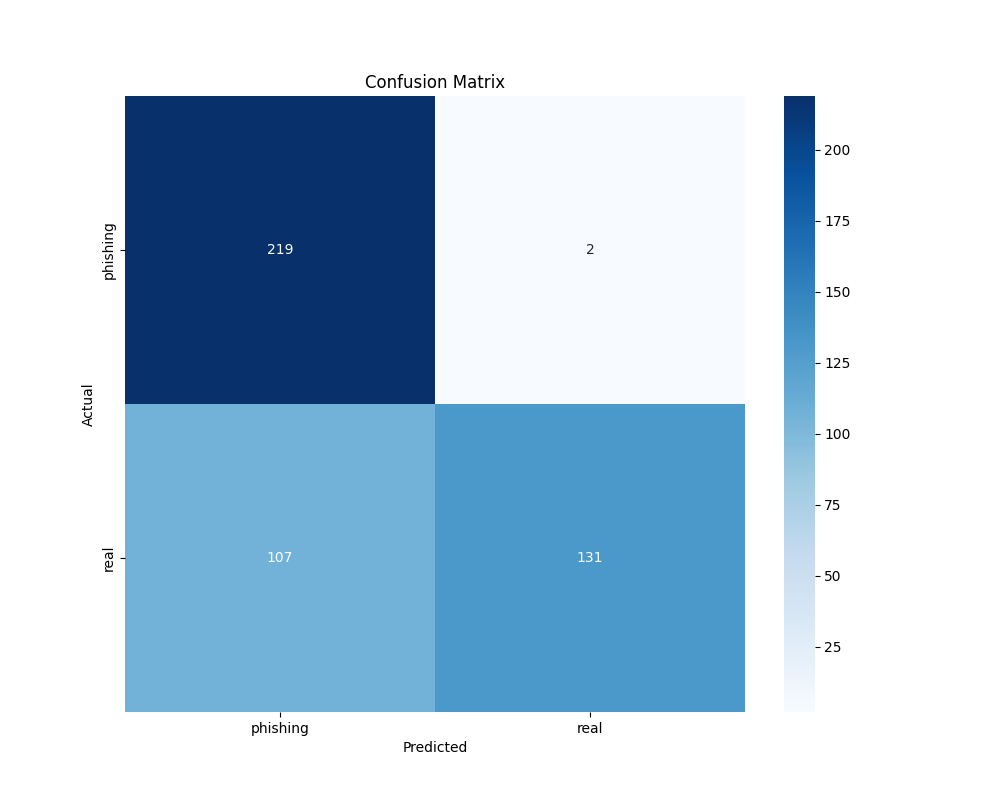
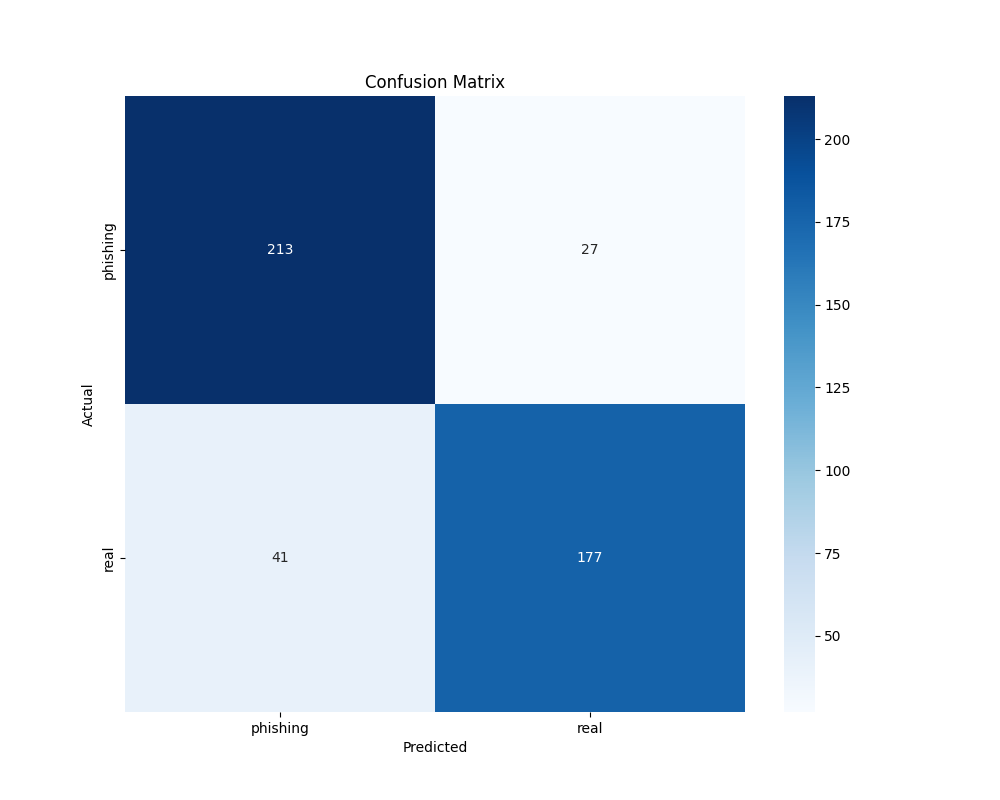
Updated

Changed region(s): [[0.124, 0.5, 0.744, 0.9062], [0.806, 0.1562, 0.868, 0.1875], [0.806, 0.7812, 0.837, 0.8125]]

diff --git a/dataset_loader.py b/dataset_loader.py
@@ -1,7 +1,21 @@
 import os
 import torch
+from PIL import Image
 from torchvision import datasets, transforms
 from torch.utils.data import DataLoader, random_split
+
+def is_valid_image(path):
+    """Checks if a file is a valid image and can be opened by PIL."""
+    valid_extensions = ('.jpg', '.jpeg', '.png', '.ppm', '.bmp', '.pgm', '.tif', '.tiff', '.webp')
+    if not path.lower().endswith(valid_extensions):
+        return False
+    try:
+        with Image.open(path) as img:
+            img.verify()
+        return True
+    except Exception:
+        print(f"Warning: Skipping corrupted or unidentified image: {path}")
+        return False
 
 def load_dataset(dataset_dir, batch_size=32, img_size=(224, 224), validation_split=0.2, seed=42):
     """
@@ -19,7 +33,7 @@ def load_dataset(dataset_dir, batch_size=32, img_size=(224, 224), validation_spl
         transforms.Normalize(mean=[0.485, 0.456, 0.406], std=[0.229, 0.224, 0.225])
     ])
 
-    full_dataset = datasets.ImageFolder(root=dataset_dir, transform=transform)
+    full_dataset = datasets.ImageFolder(root=dataset_dir, transform=transform, is_valid_file=is_valid_image)
     class_names = full_dataset.classes
     print(f"Classes: {class_names}")
 
@@ -31,9 +45,12 @@ def load_dataset(dataset_dir, batch_size=32, img_size=(224, 224), validation_spl
     generator = torch.Generator().manual_seed(seed)
     train_dataset, val_dataset = random_split(full_dataset, [train_size, val_size], generator=generator)
 
+    # Enable pin_memory only if CUDA is available to avoid UserWarnings on CPU
+    use_pin_memory = torch.cuda.is_available()
+
     # Create DataLoaders
-    train_loader = DataLoader(train_dataset, batch_size=batch_size, shuffle=True, num_workers=0, pin_memory=True)
-    val_loader = DataLoader(val_dataset, batch_size=batch_size, shuffle=False, num_workers=0, pin_memory=True)
+    train_loader = DataLoader(train_dataset, batch_size=batch_size, shuffle=True, num_workers=0, pin_memory=use_pin_memory)
+    val_loader = DataLoader(val_dataset, batch_size=batch_size, shuffle=False, num_workers=0, pin_memory=use_pin_memory)
 
     return train_loader, val_loader, class_names
 

diff --git a/train.py b/train.py
@@ -68,7 +68,7 @@ def train():
     optimizer = optim.Adam(model.parameters(), lr=0.001)
 
     # Training Loop
-    epochs = 2
+    epochs = 10
     best_val_loss = float('inf')
     patience = 5
     patience_counter = 0